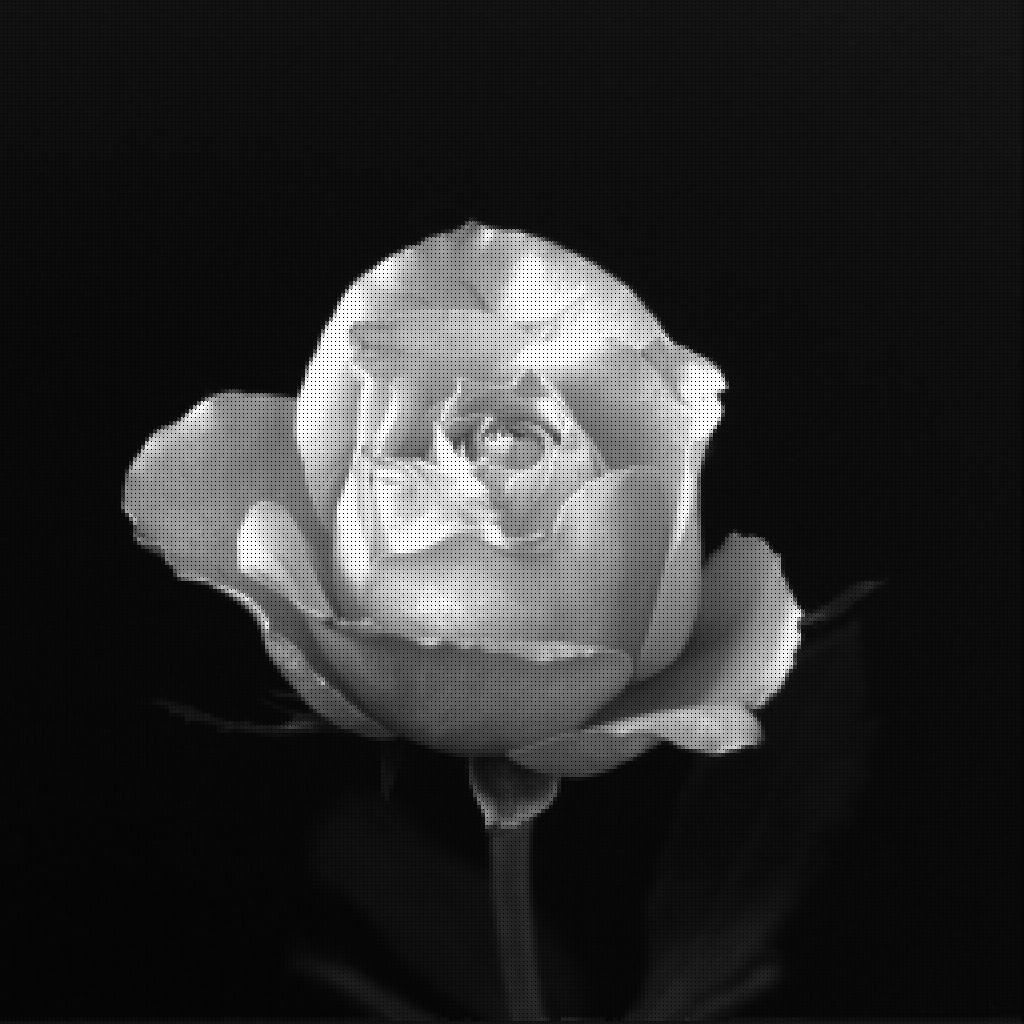
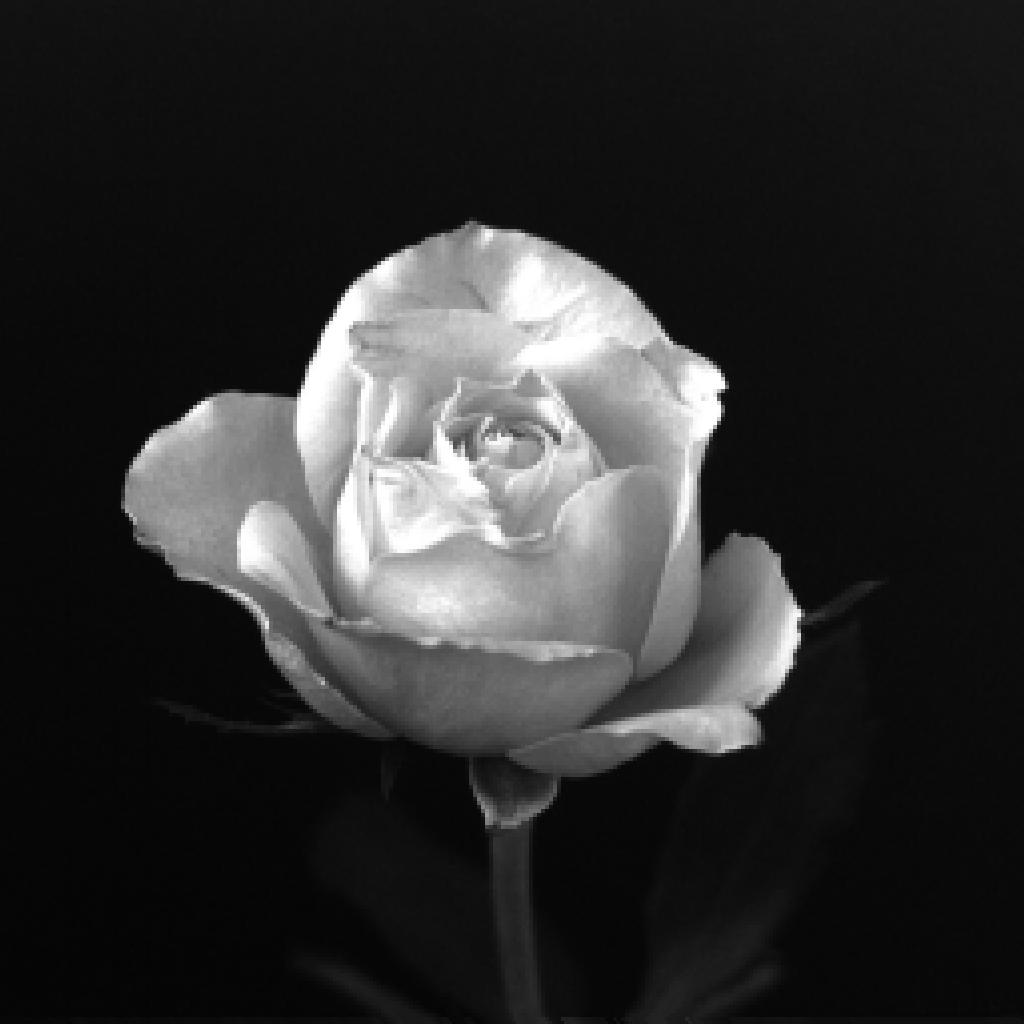
needs to be cleaned

diff --git a/Assignment 1/Assignment1.py b/Assignment 1/Assignment1.py
@@ -2,9 +2,7 @@ import numpy as np
 # import image
 from PIL import Image as pillow
 
-# Load the image
-img = pillow.open('Assignment 1/rose.jpg')
-# imgArray = np.array(img)
+
 
 # Down-sample any color or grayscale image from a 1024x1024 pixel-sized image 
 # (such as rose.jpg) to 512x512, 256x256, 128x128, respectively. Then, up-sample 
@@ -31,12 +29,12 @@ def downSample(img):
     for i in range(3):
         sideSize = image.shape[0]
         newSideSize = sideSize // 2
-        # if len(image.shape) == 3:
-        #     # RGB image
-        #     newImageArray = np.zeros((newSideSize, newSideSize, image.shape[2]), dtype=np.uint8)
-        # else:
-        #     # Grayscale image
-        #     newImageArray = np.zeros((newSideSize, newSideSize), dtype=np.uint8)
+        if len(image.shape) == 3:
+            # RGB image
+            newImageArray = np.zeros((newSideSize, newSideSize, image.shape[2]), dtype=np.uint8)
+        else:
+            # Grayscale image
+            newImageArray = np.zeros((newSideSize, newSideSize), dtype=np.uint8)
         
         # scale = image.shape[0] // newSideSize
         
@@ -47,12 +45,12 @@ def downSample(img):
         #         if i == 24 and j == 24:
         #             print(block)
 
-        newImageArray = np.zeros((newSideSize, newSideSize), dtype=np.uint8)
+        # newImageArray = np.zeros((newSideSize, newSideSize), dtype=np.uint8)
         for y in range(newSideSize):
             for x in range(newSideSize):
                 newVal = ((image[y*2,x*2]*.1+image[y * 2, x * 2+1]*.1)/2 +(image[y*2+1,x*2]*.1+image[y*2+1,x*2+1]*.1)/2)/2
-                if y == 25 and x == 25:
-                    print(newVal)
+                # if y == 25 and x == 25:
+                #     print(newVal)
                 newImageArray[y, x] = newVal/.1
         # newImageArray = image[::2, ::2]
         downSampledImages.append(pillow.fromarray(newImageArray))
@@ -66,114 +64,38 @@ def downSample(img):
 def upSampleTo1024(img):
     upSampledImages = []
     for i in range(3):
-        getImage = img[i]
-        image = np.array(getImage)
+        image = np.array(img[i])
+        if len(image.shape) == 3:
+            # RGB image
+            newImageArray = np.zeros((1024, 1024, image.shape[2]), dtype=np.uint8)
+        else:
+            # Grayscale image
+            newImageArray = np.zeros((1024, 1024), dtype=np.uint8)
+
+        # newImageArray = np.zeros((1024, 1024), dtype=np.uint8)
         ogSize = image.shape[0]
 
-        newImageArray = np.zeros((1024, 1024), dtype=np.uint8)
-        # scale = 1024 // ogSize
+        scale = 1024 // ogSize
         # for y in range(1024):
         #     for x in range(1024):
         #         newImageArray[y, x] = image[y // scale, x // scale]
+        # print(ogSize)
         if ogSize == 512:
             for y in range(ogSize):
                 for x in range(ogSize):
-                    # newImageArray[y*2-1,x*2-1] = image[y, x]
-                    # newImageArray[y * 2, x * 2] = image[y, x]
-                    # newImageArray[y*2-1,x*2] = image[y, x]
-                    # newImageArray[y*2,x*2-1] = image[y, x]
                     newImageArray[y*2-1: y*2+1, x*2-1: x*2+1] = image[y, x]
             upSampledImages.append(pillow.fromarray(newImageArray))
         elif ogSize == 256:
             for y in range(ogSize):
                 for x in range(ogSize):
-                    newImageArray[y*4-3,x*4-3] = image[y, x]
-                    newImageArray[y*4-2,x*4-2] = image[y, x]
-                    newImageArray[y*4-1,x*4-1] = image[y, x]
-                    newImageArray[y*4,x*4] = image[y, x]
-                    newImageArray[y*4-3,x*4] = image[y, x]
-                    newImageArray[y*4,x*4-3] = image[y, x]
-                    newImageArray[y*4-2,x*4] = image[y, x]
-                    newImageArray[y*4,x*4-2] = image[y, x]
-                    newImageArray[y*4-1,x*4] = image[y, x]
-                    newImageArray[y*4,x*4-1] = image[y, x]
-                    newImageArray[y*4-3,x*4-2] = image[y, x]
-                    newImageArray[y*4-2,x*4-3] = image[y, x]
-                    newImageArray[y*4-1,x*4-2] = image[y, x]
-                    newImageArray[y*4-2,x*4-1] = image[y, x]
-                    newImageArray[y*4-1,x*4-3] = image[y, x]
+                    newImageArray[y*4-3:y*4+1, x*4-3:x*4+1] = image[y, x]
 
             upSampledImages.append(pillow.fromarray(newImageArray))
         elif ogSize == 128:
             for y in range(ogSize):
                 for x in range(ogSize):
-                    newImageArray[y*8-7,x*8-7] = image[y, x]
-                    newImageArray[y*8-6,x*8-6] = image[y, x]
-                    newImageArray[y*8-5,x*8-5] = image[y, x]
-                    newImageArray[y*8-4,x*8-4] = image[y, x]
-                    newImageArray[y*8-3,x*8-3] = image[y, x]
-                    newImageArray[y*8-2,x*8-2] = image[y, x]
-                    newImageArray[y*8-1,x*8-1] = image[y, x]
-                    newImageArray[y*8,x*8] = image[y, x]
-                    newImageArray[y*8-7,x*8] = image[y, x]
-                    newImageArray[y*8,x*8-7] = image[y, x]
-                    newImageArray[y*8-6,x*8] = image[y, x]
-                    newImageArray[y*8,x*8-6] = image[y, x]
-                    newImageArray[y*8-5,x*8] = image[y, x]
-                    newImageArray[y*8,x*8-5] = image[y, x]
-                    newImageArray[y*8-4,x*8] = image[y, x]
-                    newImageArray[y*8,x*8-4] = image[y, x]
-                    newImageArray[y*8-3,x*8] = image[y, x]
-                    newImageArray[y*8,x*8-3] = image[y, x]
-                    newImageArray[y*8-2,x*8] = image[y, x]
-                    newImageArray[y*8,x*8-2] = image[y, x]
-                    newImageArray[y*8-1,x*8] = image[y, x]
-                    newImageArray[y*8,x*8-1] = image[y, x]
-                    newImageArray[y*8-7,x*8-1] = image[y, x]
-                    newImageArray[y*8-1,x*8-7] = image[y, x]
-                    newImageArray[y*8-6,x*8-1] = image[y, x]
-                    newImageArray[y*8-1,x*8-6] = image[y, x]
-                    newImageArray[y*8-5,x*8-1] = image[y, x]
-                    newImageArray[y*8-1,x*8-5] = image[y, x]
-                    newImageArray[y*8-4,x*8-1] = image[y, x]
-                    newImageArray[y*8-1,x*8-4] = image[y, x]
-                    newImageArray[y*8-3,x*8-1] = image[y, x]
-                    newImageArray[y*8-1,x*8-3] = image[y, x]
-                    newImageArray[y*8-2,x*8-1] = image[y, x]
-                    newImageArray[y*8-1,x*8-2] = image[y, x]
-                    newImageArray[y*8-7,x*8-2] = image[y, x]
-                    newImageArray[y*8-2,x*8-7] = image[y, x]
-                    newImageArray[y*8-6,x*8-2] = image[y, x]
-                    newImageArray[y*8-2,x*8-6] = image[y, x]
-                    newImageArray[y*8-5,x*8-2] = image[y, x]
-                    newImageArray[y*8-2,x*8-5] = image[y, x]
-                    newImageArray[y*8-4,x*8-2] = image[y, x]
-                    newImageArray[y*8-2,x*8-4] = image[y, x]
-                    newImageArray[y*8-3,x*8-2] = image[y, x]
-                    newImageArray[y*8-2,x*8-3] = image[y, x]
-                    newImageArray[y*8-7,x*8-3] = image[y, x]
-                    newImageArray[y*8-3,x*8-7] = image[y, x]
-                    newImageArray[y*8-6,x*8-3] = image[y, x]
-                    newImageArray[y*8-3,x*8-6] = image[y, x]
-                    newImageArray[y*8-5,x*8-3] = image[y, x]
-                    newImageArray[y*8-3,x*8-5] = image[y, x]
-                    newImageArray[y*8-4,x*8-3] = image[y, x]
-                    newImageArray[y*8-3,x*8-4] = image[y, x]
-                    newImageArray[y*8-7,x*8-4] = image[y, x]
-                    newImageArray[y*8-4,x*8-7] = image[y, x]
-                    newImageArray[y*8-6,x*8-4] = image[y, x]
-                    newImageArray[y*8-4,x*8-6] = image[y, x]
-                    newImageArray[y*8-5,x*8-4] = image[y, x]
-                    newImageArray[y*8-4,x*8-5] = image[y, x]
-                    newImageArray[y*8-7,x*8-5] = image[y, x]
-                    newImageArray[y*8-5,x*8-7] = image[y, x]
-                    newImageArray[y*8-6,x*8-5] = image[y, x]
-                    newImageArray[y*8-5,x*8-6] = image[y, x]
-                    newImageArray[y*8-7,x*8-6] = image[y, x]
-                    newImageArray[y*8-6,x*8-7] = image[y, x]
-
+                    newImageArray[y*8-7:y*8+1, x*8-7:x*8+1] = image[y, x]
             upSampledImages.append(pillow.fromarray(newImageArray))
-        # img = newImageArray
 
     return upSampledImages
 
@@ -181,12 +103,12 @@ def upSampleTo1024(img):
 # levels) to 128, 64, and 32 gray level images, respectively. Save each image to 
 # show the effect. 
 
-
+img = pillow.open('Assignment 1/kokomi.jpg')
 downSampledImages = downSample(img)
-downSampledImages[0].save('Assignment 1/rose512x512.jpg')
-downSampledImages[1].save('Assignment 1/rose256x256.jpg')
-downSampledImages[2].save('Assignment 1/rose128x128.jpg')
+downSampledImages[0].save('Assignment 1/kokomi512x512.jpg')
+downSampledImages[1].save('Assignment 1/kokomi256x256.jpg')
+downSampledImages[2].save('Assignment 1/kokomi128x128.jpg')
 upSampledImages = upSampleTo1024(downSampledImages)
-upSampledImages[0].save('Assignment 1/rose512x512to1024x1024.jpg')
-upSampledImages[1].save('Assignment 1/rose256x256to1024x1024.jpg')
-upSampledImages[2].save('Assignment 1/rose128x128to1024x1024.jpg')
+upSampledImages[0].save('Assignment 1/kokomi512x512to1024x1024.jpg')
+upSampledImages[1].save('Assignment 1/kokomi256x256to1024x1024.jpg')
+upSampledImages[2].save('Assignment 1/kokomi128x128to1024x1024.jpg')
